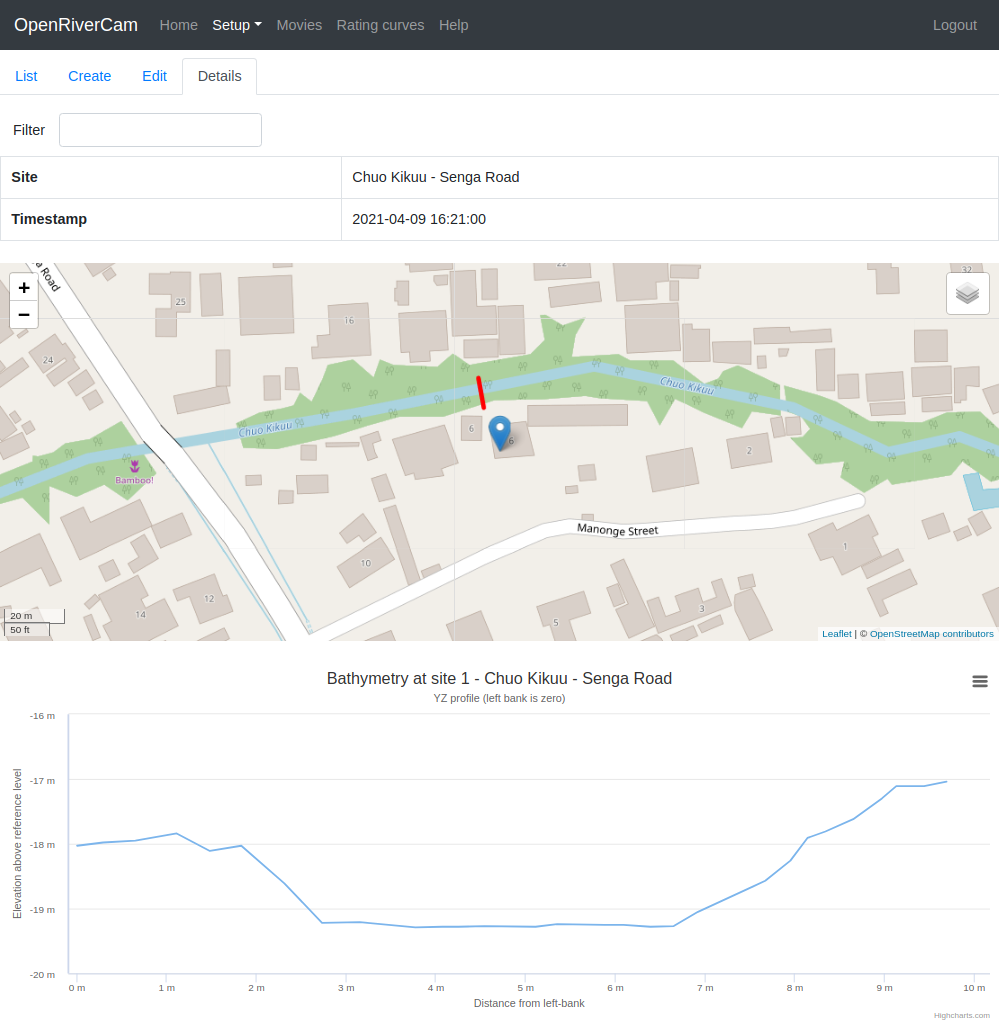
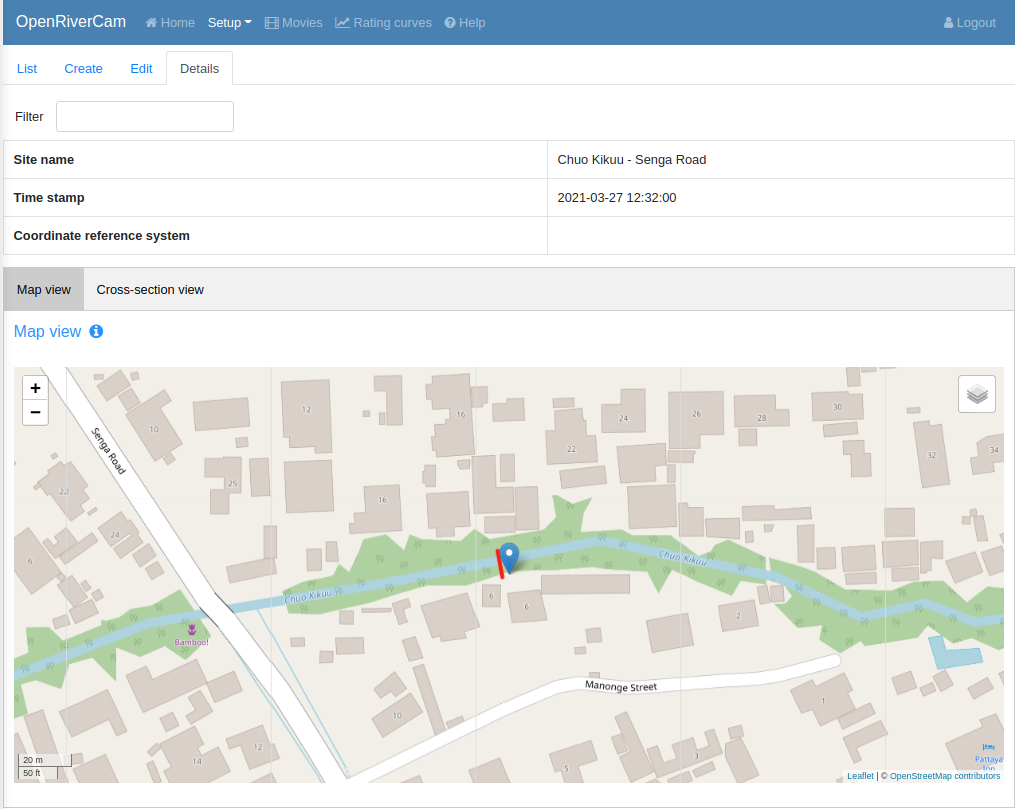
tutorial updated to latest version #23

diff --git a/docs/tutorial/index.rst b/docs/tutorial/index.rst
@@ -4,22 +4,32 @@ Quick start
 ===========
 
 To get you started with the software quickly, this section goes through all functionalities with an example package of data.
-You can download this package in a zip-file from the following link: ZIP-FILE. The zip-file contains all the sample
-data sets, including survey data and some sample videos to get you started. It should take you about one hour to
-complete this tutorial.
+You can download this package in a zip-file from the following link: Click `here <https://github.com/TAHMO/OpenRiverCam/releases/download/v0.1/ORC_demo_videos.zip>`_  to download it.
 
-We assume that you have a user login for the tool and that you have a deployment that you can go to, either on your
-local computer or on a provided web server. In case you have a locally deployed version using the Docker image,
-please open a browser and type `localhost` in the browser window and login with your credentials. If your system
-administrator has installed a web server deployment then please ask for the correct website to go to. We use Google
-Chrome throughout our tutorial. Below you see the expected result.
+The zip-file contains a set of sample videos to get you started. Please unzip all files to an easy to find location. It
+should take you about one hour to complete this tutorial. It may take a bit longer if the system perfroming
+the processing is not very fast. Note that the amount of work you have to do yourself is very limited!
+
+We use Google Chrome throughout our tutorial.
+
+First you have to go to the right website and login with credentials. There are two options here:
+
+- Your administrator has deployed OpenRiverCam and has provided you with website and login details. Please use these
+  by surfing on your favourite browser to the identified page and clicking on `Login` on the top-right of the site.
+- You have started the service locally with the provided Docker image. In that case, please browse to `localhost` on
+  your web browser. Click on `Login` and login with your credentials. If you haven't registered yet, then you will
+  find a link to `register for an account` on this page. Click on it and choose an email address and a password of your
+  choice. Then click on `Register`. You will now have a login for the next time you use OpenRiverCam, and you will
+  automatically be logged in.
+
+The result should be as shown below.
 
 .. image:: img/landing_page.png
 
 .. _tutorial_site_setup:
 
-setup a new site
-----------------
+Setting up a new site
+---------------------
 
 For this tutorial we assume that a new camera has been installed on a new site, and that all required surveying has
 been performed. For a manual on surveying, please refer to the :ref:`survey manual <survey>`. Therefore, we need to
@@ -46,10 +56,11 @@ For more information on creating a new site, please go to :ref:`Site management 
 Add a new camera type
 ---------------------
 We are going to use a Foscam F19901 EP camera. We will add this camera type and its intrinsic lens characteristics to
-our database. To do this, select `Setup`, `Camera types`, `Create`. Fill out the following details:
+our database. To do this, select `Setup`, `Camera types`, `Create`. Fill out the following details (check carefully
+the value of the barrel distortion, it is negative and has 6 decimals, 5 zeros!):
 
 - Camera name: Foscam F19901EP
-- k1 barrel distortion [-]: -3e-6
+- k1 barrel distortion [-]: -0.000003
 - c Optical center [-]: 2
 - f Focal length [mm]: 4
 
@@ -79,6 +90,7 @@ content shown below. If you provide a CSV text, please always use a flat text ed
 your own favorite editor, not Word or Excel.
 
 .. code-block::
+
     39.252163365,-6.76912008666667,-18.0319991607666
     39.2521632766667,-6.76912268833333,-17.9779991607666
     39.2521634916667,-6.76912599166667,-17.9489991607666
@@ -113,7 +125,8 @@ your own favorite editor, not Word or Excel.
 
 Copy-paste the entire contents into the text area where indicated, and click on `Store CSV`. Accept the warning
 message, and you will be brought to the details page that shows the site location, with the spatial coordinates of
-the profile points, and a plot of the bathymetry from left to right bank. Below you can see this result.
+the profile points. You can also click on `Cross-section view` to see the the bathymetry from left to
+right bank as a profile. Below you can see this result.
 
 .. image:: img/tutorial_bathymetry.png
 
@@ -154,14 +167,15 @@ A new screen will be shown where you can insert the following:
 - Time Start: this is the start time of the period in which the camera configuration is valid. If you change the
   orientation of the camera or anything else, then you have to make a new camera configuration and ensure the old one
   becomes invalid and the new one receives a start time commensurate with the validity period. Select for instance
-  today as a Time Start value
+  today as a Time Start value. For this tutorial choose any date you like.
 - Time End: Here select any day in the future. This is the end time of the period in which this configuration is
   valid. After this period, you may install for instance a new camera, or alter the angle or anything else about the
-  camera configuration.
+  camera configuration. For this tutorial choose any date you like.
 - File: here we need to provide a sample movie in which the ground control points are visible, taken during the
   survey period. Here, select the video `control_point.mkv` from the tutorial Zipfile.
 
-Once all fields are provided, click on `Save`. You should see a `Please wait` page.
+Once all fields are provided, click on `Save`. You should see a `Please wait` page. If you do not see this. Please
+refresh the page by pressing Ctrl-R on your keyboard.
 
 Camera config step 2:
 ~~~~~~~~~~~~~~~~~~~~~
@@ -169,9 +183,6 @@ After a short while, you are redirected to a new page where you can provide the 
 At the top, you can again select the Coordinate Reference System used during the survey. If you do not provide any
 value, Longitude (x) Latitude (y) is assumed, as most GPS systems report in this coordinate system. Provide a valid EPSG
 code if you have measured in another projection system. Then move to the configuration of ground control points.
-
-If you look carefully at the ground control points snapshot, you will see that there are 4 sticks in the water. Below
-the sticks are marked with red dots, at the place where they enter the water. These are your ground control points.
 
 Please do the following:
 
@@ -183,7 +194,10 @@ Please do the following:
   it follows the same order. You can click points in different orders. Just make sure that the coordinate you enter
   matches the right color as indicated below.
 
-The coordinates are provided in the table below.
+The coordinates are provided in the table below. The process is highlighted in the animation below the table. Note
+that in this animation, the values are entered very fast because they were available in the browser's cache. You will
+have to type them in very carefully or copy paste them from the table. Make sure that the `-` (minus) signs in each
+Y-coordinate are typed in correctly.
 
 =============  =======================  =======================
 Control point  Coordinate X [lon or m]  Coordinate Y [lat or m]
@@ -193,6 +207,8 @@ top-right      39.2522168               -6.7691393
 bottom-right   39.2522104               -6.7691645
 bottom-left    39.2521400               -6.7691770
 =============  =======================  =======================
+
+.. image:: img/gcps.gif
 
 Fill out the following water levels:
 
@@ -242,6 +258,13 @@ on the projected image. Click on `Save` to finalize the configuration.
 .. note::
    We will change the last step so that you can also provide a window size in meters distance, instead of pixels.
 
+After clicking `Save`, you can go back to the `List` view by clicking on `List`. You should now see the configuration
+with start and end time appearing in the list. You can also click on details (see red dot below) to see all the
+information about the camera configuration as it appears in the database ofd OpenRiverCam. This is rather technical,
+so not treated any further here.
+
+.. image:: img/tutorial_cameraconfig_list.png
+
 .. _tutorial_movie_process:
 
 Process a new movie
@@ -278,15 +301,44 @@ staff gauge. You will find that it is about 1.18 meters. Fill out this value in 
 on `Save`. You are now redirected back to the list of movies, but now you will see that the water level is in
 the table, and that the status of the movie changed to `MOVIE_STATUS_PROCESSING`. This means that the back-end of
 OpenRiverCam is crunching the numbers. It may take a while before the results appear. You can reload the page a few
-times to see if the status already has changed. If the status becomes `MOVIE_STATUS_FINISHED`, you can click on the
-`View` button left of the movie in the table, indicated with an eye icon. This will show the results of the analysis,
-including the median velocity estimates on the water surface, and the table with results for this movie. This table
-now also displays the median discharge in m3/s, estimated from the combination of the water level and the surface
-velocities.
+times to see if the status already has changed.
+
+.. image:: img/tutorial_movie_edit.png
 
 .. note:: If you click on the `Edit` button really fast after the upload procedure, you may find a message indicating
    that the frame is not yet available. Please reload a few times to see the frame appearing and then continue the
    process as normal.
+
+.. note:: The processing may take several minutes. In a future release, we will add a progress bar to provide a user
+   with feedback on the processing status.
+
+Inspecting results
+~~~~~~~~~~~~~~~~~~
+If the status becomes `MOVIE_STATUS_FINISHED`, the table will display the median discharge in m3/s as well as a
+number of percentiles that can be used to better understand the uncertainties. Uncertainties are currently estimated
+very conservatively, as the tool assumes that errors are fully correlated in space. We are still working on more
+reliable error estimates. Nonetheless these estimates are very useful to get a feeling of the relative uncertainties
+between different movie analyses.
+
+You can now click on the `View` button left of the movie in the table, indicated with an eye icon. This will show the
+results of the analysis, including the median velocity estimates on the water surface. Yoiu will see that not the
+entire water surface contains velocity estimates. This is because OpenRiverCam contains sophisticated filters, that
+automatically detect spurious velocities or velocities at places where too little patterns were available to provide
+reliable estimates. The filters use spatial and temporal logics to perform this filtering. For instance, when
+velocities in a certain window move from left to right all the time, it is likely that overhanging vegetation was
+present in this window, that moved from left to right due to wind.
+
+Velocities in the cross section that are unknown but needed for a full cross-sectional river flow estimate are
+estimated by fitting a logarithmic relationship between velocity and depth in the places with known velocities. This
+ensures that your discharge estimate always integrates over the entire width of the stream, and no cross-sectional
+area is missing. For more details on this approach we refer to :ref:`movie_processing`.
+
+.. image:: img/tutorial_movie_details.gif
+
+
+.. note:: Currently, it is assumed that the first 5 seconds of a movie contain enough information to estimate river
+  flow. Longer videos will only be processed for the first 5 seconds. Dependent on feedback from users, we may make
+  this a configurable option.
 
 .. _tutorial_rating:
 
@@ -300,11 +352,14 @@ points before the results will appear. In the tutorial data, we have also suppli
 you to process in exactly the same way. To make it really easy, we recommend that you do this in the following manner:
 
 - First upload all the movies, by clicking `Create` and follow the same steps as in the first movie.
-- Once all movies are in the list with status `MOVIE_STATUS_NEW`, go through each one of them by clicking on the
-  `Edit` button and reading and filling out the water level from the staff gauge.
+- Once all movies are in the list with status `MOVIE_STATUS_EXTRACTED`, go through each one of them by clicking on the
+  `Edit` button and reading and filling out the water level from the staff gauge. If you want to enlarge the
+  snapshot, please right-click on the image and select `Open image in new tab`. You can then even zoom in to the image.
+  Once you have read it, close the tab and enter the value in the window.
 
 If you do it in this order, all movies are placed in a queue for processing. You simply can go grab a coffee or tea,
-and occasionally check if new movies have reached the `MOVIE_STATUS_FINISHED` status.
+and occasionally check if new movies have reached the `MOVIE_STATUS_FINISHED` status. Note that per movie, dependent
+on the speed of the system doing the processing, it may take 5 to 10 minutes per movie.
 
 Create a new rating curve from videos
 ~~~~~~~~~~~~~~~~~~~~~~~~~~~~~~~~~~~~~
@@ -328,6 +383,6 @@ with a relatively simple field survey. A few things to note at the end of this t
   of their position on the water surface. Take a short movie of the situation with the camera in its final position
   and then make a new camera configuration based on your measurements. Make sure that you also always measure the
   position of the lens of the camera.
-- If you like this software, and have requests for new features, please reach out to us via info@tahmo.org, or
-  info@rainbowsensing.com. You can also visit the software's code page on github and submit new feature requests
+- If you like this software, and have requests for new features, please reach out to us via info@rainbowsensing.com or
+  info@tahmo.org. You can also visit the software's code page on github and submit new feature requests
   there, on https://github.com/TAHMO/OpenRiverCam.

diff --git a/docs/index.rst b/docs/index.rst
@@ -11,8 +11,39 @@ OpenRiverCam is a fully web-based solution for setting up maintaining river obse
 monitoring with cameras. The software's backend is based on Large-Scale Particle Image Velocimetry (LSPIV), and
 geographical orthprojection methods. With affordable camera equipment and a single field survey, you can start
 monitoring river flows. Software can be deployed locally or on your home server, or be used through deployment in the
-cloud. It's user-friendly web interface can be accessed via smartphone, tablet, laptop, desktop, all in a simple
-browser.
+cloud. Its user-friendly web interface can be accessed via smartphone, tablet, laptop, desktop, all in a simple
+browser. We highly recommend to do the :ref:`Quick start<tutorial>`. to find out if OpenRiverCam will fulfill your
+needs.
+
+If you do not know how to get OpenRiverCam installed, please contact us at info@rainbowsensing.com, or
+info@tahmo.org to get a temporary login to one of our web services. This will allow you to get a good flavour of
+OpenRiverCam.
+
+If you wish to receive services from us, please contact us at info@rainbowsensing.com or info@tahmo.org. We offer the
+following services:
+
+- Care free cloud service, fully maintained by us for a monthly or yearly fee.
+- Setup of new sites, including hardware, and training in the setup of sites for your staff.
+- Setup, deployment and maintenance of OpenRiverCam in your own IT environment or cloud, including training how to
+  perform this setup in your own environment
+- Training in usage, interpretation and analysis of river flows
+- Development of new features. As OpenRiverCam is fully open source and free and will remain so indefinitely, any
+  developments will be available to all end users of OpenRiverCam.
+
+Acknowledgements
+================
+
+The development of OpenRiverCam was funded through a WMO HydroHub grant titled "Open-source non-contact river flow
+observations with cameras for Africa".
+
+.. image:: img/wmo_hydrohub.png
+
+OpenRiverCam was developed by Rainbow Sensing and the Trans African Hydrometeorological Observatory. OpenRiverCam has
+been co-designed with Delft, University of Technology, the Tanzanian Meteorological Authority, the Wami-Ruvu basin
+authority of the Tanzania Ministry of Water and Irrigation, The Netherlands Royal Meteorological Agency and the
+Waterboard of Limburg - The Netherlands.
+
+.. image:: img/logos.png
 
 .. toctree::
    :maxdepth: 2
@@ -37,3 +68,4 @@ Indices and tables
 * :ref:`genindex`
 * :ref:`modindex`
 * :ref:`search`
+

diff --git a/docs/movies/index.rst b/docs/movies/index.rst
@@ -63,6 +63,8 @@ A movie, once uploaded can have different statuses. These are briefly described 
   bathymetry is not within the area of interest selected. Please carefully check if the bathymetry is in the right
   position geographically.
 
+.. _movie_processing:
+
 Movie processing
 ----------------
 Once movies are in the MOVIE_STATUS_PROCESSING state, many different steps are taken in the backend. The overview
